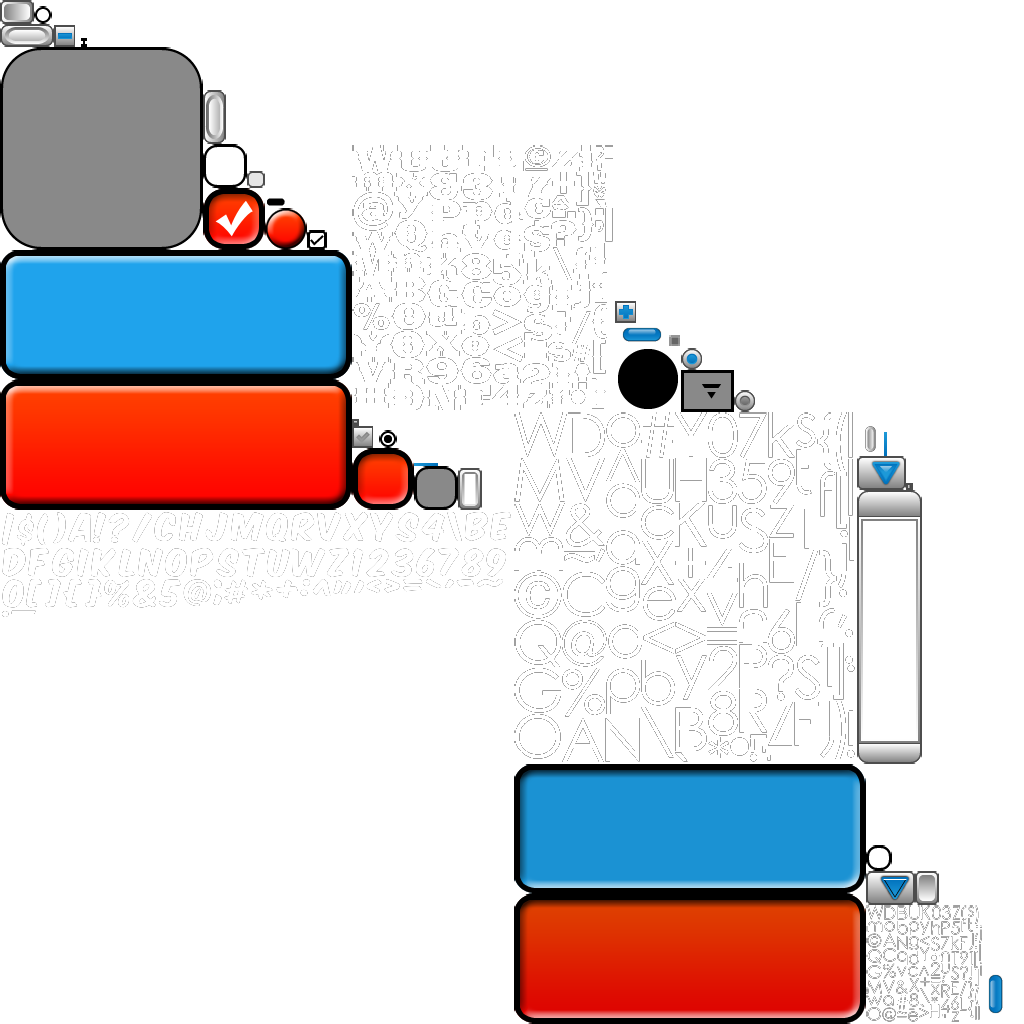
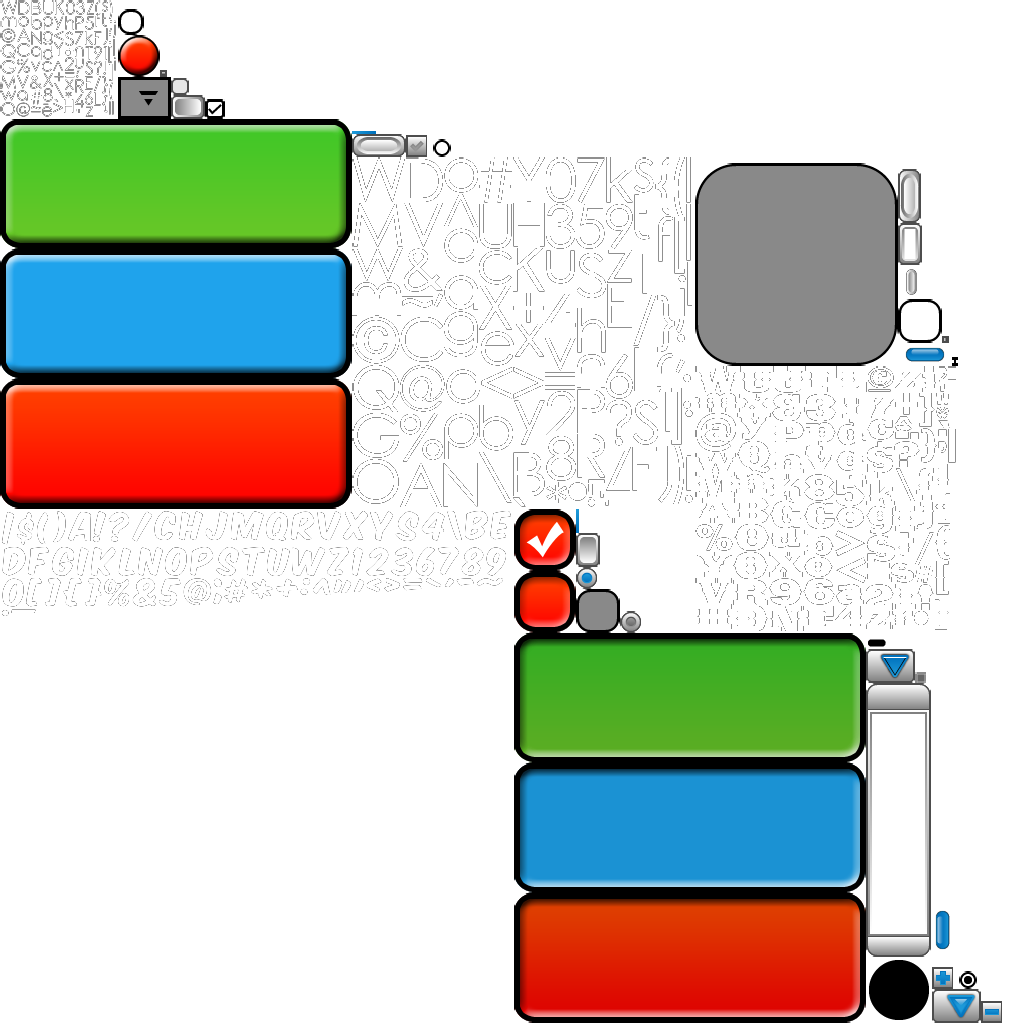
menus improvements2

Changed region(s): [[0.0, 0.0, 1.0, 1.0]]

diff --git a/core/src/fi/tamk/tiko/harecraft/MainMenu.java b/core/src/fi/tamk/tiko/harecraft/MainMenu.java
@@ -82,6 +82,8 @@ public class MainMenu extends ScreenAdapter {
     MyAnimation<TextureRegion> animation_plane = Assets.animation_menu_plane;
     static I18NBundle localizationBundle;
 
+    Texture background;
+
     public MainMenu(GameMain game, boolean isLaunched) {
         this.game = game;
         this.isLaunched = isLaunched;
@@ -98,6 +100,8 @@ public class MainMenu extends ScreenAdapter {
         ProfileInfo.determineGameLanguage(); //check language data
         locale = ProfileInfo.gameLanguage;
         localizationBundle = I18NBundle.createBundle(Gdx.files.internal("Localization"), locale);
+
+        background = new Texture(Gdx.files.internal("textures/menubg.png"));
 
         profiles = new ArrayList<String>();
         for (int i = 0; i<200; i++) {
@@ -349,6 +353,7 @@ public class MainMenu extends ScreenAdapter {
         Gdx.gl.glClearColor(0.16f, 0.45f, 0.6f, 1);
         Gdx.gl.glClear(GL20.GL_COLOR_BUFFER_BIT);
         sBatch.begin();
+        sBatch.draw(background, 0 , 0, Gdx.graphics.getWidth(), Gdx.graphics.getHeight());
         sprite_plane.draw(sBatch);
         //sBatch.draw(logo, Gdx.graphics.getWidth()/8 , Gdx.graphics.getHeight()/2,Gdx.graphics.getWidth() - (Gdx.graphics.getWidth()/8) *2,Gdx.graphics.getHeight()/2);
         sBatch.draw(logo,
@@ -465,128 +470,3 @@ class BananaButton extends Actor {
         batch.draw(banana, getX(),getY(),100,100);
     }
 }
-
-/*
-    GameMain game;
-    Texture logo;
-    Button playButton;
-    Button settingsButton;
-    Button scoreButton;
-    Boolean touchUp = false;
-
-    public MainMenu(GameMain game) {
-        this.game = game;
-        logo = new Texture("textures/logo.png");
-        playButton = new Button("Play", 0);
-        settingsButton = new Button("Settings", 100);
-        scoreButton = new Button("Scores", 200);
-        Gdx.input.setInputProcessor(this);
-        Gdx.gl.glClearColor(0.3f, 0.6f, 1f, 1);
-    }
-
-    @Override
-    public void render(float delta) {
-        Gdx.gl.glClear(GL20.GL_COLOR_BUFFER_BIT);
-
-        game.sBatch.begin();
-        game.sBatch.draw(logo, Gdx.graphics.getWidth()/8 , Gdx.graphics.getHeight()/2,Gdx.graphics.getWidth() - (Gdx.graphics.getWidth()/8) *2,Gdx.graphics.getHeight()/2);
-        playButton.drawMe(game.sBatch);
-        settingsButton.drawMe(game.sBatch);
-        scoreButton.drawMe(game.sBatch);
-        game.sBatch.end();
-        if (playButton.getButtonRectangle().contains(Gdx.input.getX(), Gdx.input.getY()) && touchUp == true) {
-            game.setScreen(new GameScreen(game, new World()));
-        }
-        if (settingsButton.getButtonRectangle().contains(Gdx.input.getX(), Gdx.input.getY()) && touchUp == true) {
-            game.setScreen(new SettingsMenu(game));
-        }
-        touchUp = false;
-    }
-
-    @Override
-    public boolean keyDown(int keycode) {
-        return false;
-    }
-
-    @Override
-    public boolean keyUp(int keycode) {
-        return false;
-    }
-
-    @Override
-    public boolean keyTyped(char character) {
-        return false;
-    }
-
-    @Override
-    public boolean touchDown(int screenX, int screenY, int pointer, int button) {return false;}
-
-    @Override
-    public boolean touchUp(int screenX, int screenY, int pointer, int button) {
-        touchUp = true;
-        return false;
-    }
-
-    @Override
-    public boolean touchDragged(int screenX, int screenY, int pointer) {
-        return false;
-    }
-
-    @Override
-    public boolean mouseMoved(int screenX, int screenY) {
-        return false;
-    }
-
-    @Override
-    public boolean scrolled(int amount) {
-        return false;
-    }
-}
-
-class Button {
-    Texture buttonTexture;
-    Texture buttonTexturePressed;
-    String buttonText = "";
-    Rectangle buttonRectangle;
-    Boolean isPressed;
-    int offsetPosition;
-    GlyphLayout textMeasures;
-    Sound buttonSound;
-
-    public Button(String bText, int offsetY) {
-        buttonSound = Assets.sound_cloud_hit;
-        textMeasures= new GlyphLayout();
-        isPressed = false;
-        buttonText = bText;
-        offsetPosition = offsetY;
-        buttonTexture = new Texture("textures/playbutton.png");
-        buttonTexturePressed = new Texture("textures/playbutton2.png");
-        textMeasures.setText(Assets.font, buttonText);
-        buttonRectangle = new Rectangle(Gdx.graphics.getWidth()/2 -150,(Gdx.graphics.getHeight()/2 -50) +offsetPosition ,300,100);
-    }
-
-    public void drawMe(SpriteBatch batch) {
-
-        if (Gdx.input.isTouched()) {
-            if (buttonRectangle.contains(Gdx.input.getX(), Gdx.input.getY()) && isPressed == false) {
-                buttonSound.play();
-                isPressed = true;
-            }
-        }
-
-        if (isPressed == true) {
-            batch.draw(buttonTexturePressed, Gdx.graphics.getWidth() / 2 - 150, (Gdx.graphics.getHeight() / 2 - 50) -offsetPosition, 300, 100);
-        }
-        else {
-            batch.draw(buttonTexture, Gdx.graphics.getWidth() / 2 - 150, (Gdx.graphics.getHeight() / 2 - 50) -offsetPosition, 300, 100);
-        }
-        if (!buttonRectangle.contains(Gdx.input.getX(), Gdx.input.getY())) {
-            isPressed = false;
-        }
-        Assets.font.draw(batch,buttonText,Gdx.graphics.getWidth()/2 -textMeasures.width/2,Gdx.graphics.getHeight()/2 +75 -50 -offsetPosition );
-    }
-
-    public Rectangle getButtonRectangle() {
-        return buttonRectangle;
-    }
-} */

diff --git a/core/src/fi/tamk/tiko/harecraft/LevelSelectMenu.java b/core/src/fi/tamk/tiko/harecraft/LevelSelectMenu.java
@@ -111,9 +111,9 @@ public class LevelSelectMenu extends ScreenAdapter {
         });
 
         style = new TextButton.TextButtonStyle(
-                Assets.skin_menu.getDrawable("listbutton"),
-                Assets.skin_menu.getDrawable("listbutton pressed"),
-                Assets.skin_menu.getDrawable("listbutton"),
+                Assets.skin_menu.getDrawable("buttongreen"),
+                Assets.skin_menu.getDrawable("buttongreenpressed"),
+                Assets.skin_menu.getDrawable("buttongreen"),
                 Assets.font5
         );
         style.pressedOffsetX = 4;
@@ -196,7 +196,7 @@ public class LevelSelectMenu extends ScreenAdapter {
     }
 
     public void render (float delta) {
-        Gdx.gl.glClearColor(0.16f, 0.45f, 0.6f, 1);
+        Gdx.gl.glClearColor(68f/255f, 153f/255f, 223f/255f, 1);
         Gdx.gl.glClear(GL20.GL_COLOR_BUFFER_BIT);
 
         stage.act();

diff --git a/core/src/fi/tamk/tiko/harecraft/SettingsMenu.java b/core/src/fi/tamk/tiko/harecraft/SettingsMenu.java
@@ -296,7 +296,8 @@ public class SettingsMenu extends ScreenAdapter {
 
     @Override
     public void render (float delta) {
-        Gdx.gl.glClearColor(0.16f, 0.45f, 0.6f, 1);
+        //Gdx.gl.glClearColor(0.16f, 0.45f, 0.6f, 1);
+        Gdx.gl.glClearColor(68f/255f, 153f/255f, 223f/255f, 1);
         Gdx.gl.glClear(GL20.GL_COLOR_BUFFER_BIT);
 
         //removeRadarDots();

diff --git a/core/src/fi/tamk/tiko/harecraft/CreateUser.java b/core/src/fi/tamk/tiko/harecraft/CreateUser.java
@@ -152,7 +152,7 @@ public class CreateUser extends ScreenAdapter {
     }
 
     public void render (float delta) {
-        Gdx.gl.glClearColor(0.16f, 0.45f, 0.6f, 1);
+        Gdx.gl.glClearColor(68f/255f, 153f/255f, 223f/255f, 1);
         Gdx.gl.glClear(GL20.GL_COLOR_BUFFER_BIT);
         //Gdx.app.log("nabbi", Gdx.input.isKeyPressed());
 

diff --git a/core/src/fi/tamk/tiko/harecraft/ConfirmDelete.java b/core/src/fi/tamk/tiko/harecraft/ConfirmDelete.java
@@ -117,7 +117,7 @@ public class ConfirmDelete extends ScreenAdapter {
     }
 
     public void render (float delta) {
-        Gdx.gl.glClearColor(0.16f, 0.45f, 0.6f, 1);
+        Gdx.gl.glClearColor(68f/255f, 153f/255f, 223f/255f, 1);
         Gdx.gl.glClear(GL20.GL_COLOR_BUFFER_BIT);
 
         stage.act();

diff --git a/core/src/fi/tamk/tiko/harecraft/ProfileMenu.java b/core/src/fi/tamk/tiko/harecraft/ProfileMenu.java
@@ -169,7 +169,7 @@ public class ProfileMenu extends ScreenAdapter {
     }
 
     public void render (float delta) {
-        Gdx.gl.glClearColor(0.16f, 0.45f, 0.6f, 1);
+        Gdx.gl.glClearColor(68f/255f, 153f/255f, 223f/255f, 1);
         Gdx.gl.glClear(GL20.GL_COLOR_BUFFER_BIT);
 
         stage.act();

diff --git a/core/src/fi/tamk/tiko/harecraft/CreditsMenu.java b/core/src/fi/tamk/tiko/harecraft/CreditsMenu.java
@@ -125,7 +125,7 @@ public class CreditsMenu extends ScreenAdapter {
 
     public void render (float delta) {
 
-        Gdx.gl.glClearColor(0.16f, 0.45f, 0.6f, 1);
+        Gdx.gl.glClearColor(68f/255f, 153f/255f, 223f/255f, 1);
         Gdx.gl.glClear(GL20.GL_COLOR_BUFFER_BIT);
 
         stage.act();
